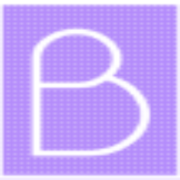
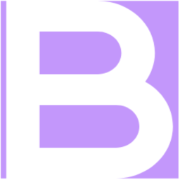
maj

diff --git a/index.html b/index.html
@@ -22,7 +22,10 @@
 <body>
 <!-- Navbar -->
 <nav class="navbar navbar-expand-lg">
-  <div class="container"> <a class="navbar-brand navbar-logo" href="#"> <img src="images/logo.png" alt="logo" class="logo-1"> </a>
+  <div class="container"> <a class="navbar-brand navbar-logo" href="#">
+    <img src="images/logotest.png" alt="logo" class="logo-img"> 
+</a>
+ </a>
     <button class="navbar-toggler" type="button" data-toggle="collapse" data-target="#navbarSupportedContent" aria-controls="navbarSupportedContent" aria-expanded="false" aria-label="Toggle navigation"> <span class="fas fa-bars"></span> </button>
     <div class="collapse navbar-collapse" id="navbarSupportedContent">
       <ul class="navbar-nav ml-auto">
@@ -31,7 +34,7 @@
         <li class="nav-item"> <a class="nav-link" href="#" data-scroll-nav="2">Fonctionnalités</a> </li>
         <li class="nav-item"> <a class="nav-link" href="#" data-scroll-nav="4">Sites scrapés</a> </li>
         <li class="nav-item"> <a class="nav-link" href="#" data-scroll-nav="5">FAQ</a> </li>
-        <li class="nav-item"> <a class="nav-link" href="#" data-scroll-nav="6">Contact</a> </li>
+        <li class="nav-item"> <a class="nav-link" href="#" data-scroll-nav="6">Planifiez une démo</a> </li>
       </ul>
     </div>
   </div>
@@ -46,11 +49,11 @@
           <div class="banner-text">
             <h2 class="white">Dénichez les Prix Bas avec Biblioprix</h2>
             <h6 class="white">Le Spécialiste du Livre d'Occasion</h6>
-            <p class="banner-text white">Trouvez les meilleures affaires en quelques clics avec Biblioprix, votre assistant dédié à la recherche de livres d'occasion. Grâce à notre technologie avancée de scrapping, importez vos listes d'ISBN et laissez Biblioprix parcourir plus d'une dizaine de sites revendeurs pour vous et identifier automatiquement les offres les plus avantageuses.</p>
+            <p class="banner-text white">Trouvez les meilleures affaires en quelques clics avec Biblioprix, votre assistant dédié à la recherche de livres d'occasion. Importez vos listes d'ISBN et laissez l'outil parcourir plus d'une dizaine de sites revendeurs pour vous, identifiant automatiquement les offres les plus avantageuses.</p>
             
           </div>
         </div>
-        <div class="col-md-4 col-sm-12"> <img src="images/iphone.png" class="img-fluid wow fadeInUp"/> </div>
+        <div class="col-md-4 col-sm-12"> <img src="images/iphone12.png" class="img-fluid wow fadeInUp"/> </div>
       </div>
     </div>
   </div>
@@ -74,7 +77,7 @@
             <div class="col-md-4">
               <div class="icon-box wow fadeInUp" data-wow-delay="0.2s"> <i class="fa fa-life-ring" aria-hidden="true"></i>
                 <h5>Support</h5>
-                <p>Support réactif, corrections en moins de 24h pour un scrapping sans prise de tête !</p>
+                <p>Support réactif, corrections en moins de 24h.</p>
               </div>
             </div>
             <div class="col-md-4">
@@ -86,7 +89,7 @@
             <div class="col-md-4">
               <div class="icon-box wow fadeInUp" data-wow-delay="0.6s"> <i class="fa fa-bolt" aria-hidden="true"></i>
                 <h5>Rapidité</h5>
-                <p>Serveurs optimisés avec proxys puissants pour un scrapping rapide et efficace.</p>
+                <p>Scannez 10 000 ISBNs en moins de 10 minutes.</p>
               </div>
             </div>
           </div>
@@ -151,21 +154,21 @@
               </div>
             </div>
             <div class="col-md-4 d-none d-md-block d-lg-block">
-              <div class="feature-mobile"> <img src="images/iphone2.png" class="img-fluid wow fadeInUp"/> </div>
+              <div class="feature-mobile"> <img src="images/iphone5.png" class="img-fluid wow fadeInUp"/> </div>
             </div>
             <div class="col-md-4 col-sm-12">
               <div class="media single-feature wow fadeInUp" data-wow-delay="0.2s">
                 <div class="media-left icon-border media-right-margin"> <span class="fa fa-check-double" aria-hidden="true"></span> </div>
                 <div class="media-body text-left">
                   <h5>Mises à jour régulières</h5>
-                  <p>Nous actualisons régulièrement le système pour améliorer le scrapping et maintenir une efficacité contre les nouvelles protections</p>
+                  <p>Nous actualisons régulièrement le système pour améliorer le scraping et maintenir une efficacité contre les nouvelles protections</p>
                 </div>
               </div>
               <div class="media single-feature wow fadeInUp" data-wow-delay="0.4s">
                 <div class="media-left icon-border media-right-margin"> <span class="fa fa-dollar-sign" aria-hidden="true"></span> </div>
                 <div class="media-body text-left">
                   <h5>Économiser de l'argent</h5>
-                  <p>Le coût mensuel de notre bot de scrapping est rapidement amorti, rendant votre investissement rentable dès le premier mois</p>
+                  <p>Le coût mensuel de notre bot de scraping est rapidement amorti, rendant votre investissement rentable dès le premier mois</p>
                 </div>
               </div>
               <div class="media single-feature wow fadeInUp" data-wow-delay="0.6s">
@@ -184,44 +187,7 @@
 </section>
 <!-------Features End-------> 
 
-<!-------Team Start------->
-<!-- <section class="team section-padding" data-scroll-index='3'>
-  <div class="container">
-    <div class="row">
-      <div class="col-md-12">
-        <div class="sectioner-header text-center">
-          <h3>Our Team</h3>
-          <span class="line"></span>
-          <p>Sed quis nisi nisi. Proin consectetur porttitor dui sit amet viverra. Fusce sit amet lorem faucibus, vestibulum ante in, pharetra ante.</p>
-        </div>
-        <div class="section-content text-center">
-          <div class="row">
-            <div class="col-md-4">
-              <div class="team-detail wow bounce" data-wow-delay="0.2s"> <img src="images/user1.jpg" class="img-fluid"/>
-                <h4>Nitu Singh</h4>
-                <p>Marketing Specialist</p>
-              </div>
-            </div>
-            <div class="col-md-4">
-              <div class="team-detail wow bounce" data-wow-delay="0.4s"> <img src="images/user2.jpg" class="img-fluid"/>
-                <h4>Yogesh Singh</h4>
-                <p>CEO & Founder</p>
-              </div>
-            </div>
-            <div class="col-md-4">
-              <div class="team-detail wow bounce" data-wow-delay="0.6s"> <img src="images/user3.jpg" class="img-fluid"/>
-                <h4>Nisha Sharma</h4>
-                <p>Web Developer</p>
-              </div>
-            </div>
-          </div>
-        </div>
-      </div>
-    </div>
-  </div>
-</section> -->
 
-<!-------Team End-------> 
 
 <!-------Testimonial Start------->
 <section class="testimonial section-padding" data-scroll-index='4'>
@@ -293,24 +259,24 @@
         <div class="sectioner-header text-center">
           <h3>Foire aux questions</h3>
           <span class="line"></span>
-          <p>Retrouvez ici les réponses aux questions les plus fréquemment posées sur notre service de scrapping de livres d'occasion.</p>
+          <p>Retrouvez ici les réponses aux questions les plus fréquemment posées sur notre service de scraping de livres d'occasion.</p>
         </div>
         <div class="section-content">
           <div class="row">
             <div class="col-md-6 faq-content wow fadeInUp" data-wow-delay="0.2s">
               <h4>Pourquoi vendre des livres d'occasion ?</h4>
-              <p>Le marché du livre d'occasion est en <b>croissance constante</b>, récupérant souvent des livres neufs invendus. En France, une large population passionnée de lecture préfère ces options plus économiques. De plus, <b>la loi permet de fixer librement les prix des livres d'occasion</b>, contrairement aux livres neufs.</p>
+              <p>Le marché du livre d'occasion est en <b>croissance constante</b>. De plus, <b>la loi permet de fixer librement les prix des livres d'occasion</b>, contrairement aux livres neufs.</p>
             </div>
             <div class="col-md-6 faq-content wow fadeInUp" data-wow-delay="0.2s">
               <h4>Comment débuter dans l'achat-revente de livres ?</h4>
               <p>Lancer un commerce d'achat-revente de livres est <b>accessible à tous</b>. Il suffit de créer une entreprise et de s'inscrire comme vendeur sur des plateformes comme Amazon. Achetez ensuite des livres, préparez les envois pour Amazon, et gérez votre stock.</p>
             </div>
             <div class="col-md-6 faq-content wow fadeInUp" data-wow-delay="0.4s">
-              <h4>Le scrapping est-il légal ?</h4>
-              <p><b>Oui, le scrapping est légal</b> tant que les données scrapées sont accessibles publiquement et ne se trouvent pas derrière un espace de connexion requérant des identifiants.</p>
+              <h4>Le scraping est-il légal ?</h4>
+              <p><b>Oui, le scraping est légal</b> tant que les données scrapées sont accessibles publiquement et ne se trouvent pas derrière un espace de connexion requérant des identifiants.</p>
             </div>
             <div class="col-md-6 faq-content wow fadeInUp" data-wow-delay="0.4s">
-              <h4>Quel est le coût de l'abonnement au bot de scrapping ?</h4>
+              <h4>Quel est le tarif mensuel de l'abonnement ?</h4>
               <p>Nous proposons un abonnement mensuel. Le premier mois est tarifé à 300 euros pour permettre aux nouveaux utilisateurs de se familiariser avec le service, puis le coût est de <b>600 euros par mois</b>.</p>
             </div>
             <div class="col-md-6 faq-content wow fadeInUp" data-wow-delay="0.6s">
@@ -330,57 +296,63 @@
 
 <!-------FAQ End-------> 
 
+<script>
+  document.addEventListener('DOMContentLoaded', function () {
+      // Email
+      var encodedEmail = 'YmlibGlvcHJpeEBnbWFpbC5jb20=';
+      var emailElement = document.getElementById('email-link');
+      emailElement.href = 'mailto:' + atob(encodedEmail);
+      emailElement.textContent = atob(encodedEmail);
+      emailElement.target = '_blank'; // Ajout de l'attribut target
+  
+      // Discord
+      var encodedDiscord = 'aHR0cHM6Ly9kaXNjb3JkLmdnL1lFajRFcE5Sc1Q=';
+      var discordElement = document.getElementById('discord-link');
+      discordElement.href = atob(encodedDiscord);
+      discordElement.textContent = atob(encodedDiscord);
+      discordElement.target = '_blank'; // Ajout de l'attribut target
+  });
+  </script>
+  
+  
+
 <!-------Contact Start------->
 <section class="contact section-padding" data-scroll-index='6'>
   <div class="container">
     <div class="row">
       <div class="col-md-12">
         <div class="sectioner-header text-center">
-          <h3>Contactez nous</h3>
+          <h3>Planifiez une démo</h3>
           <span class="line"></span>
           <p>Connectons-nous ! Retrouvez-nous sur nos différents canaux de communication et parlons de vos besoins.</p>
         </div>
         <div class="section-content">
           <div class="row">
-            <!-- <div class="col-sm-12 col-md-12 col-lg-8">
-              <form id="contact_form" action="">
-                <div class="row">
-                  <div class="col">
-                    <input type="text" id="your_name" class="form-input w-100" name="full-name" placeholder="Full Name" required>
-                  </div>
-                  <div class="col">
-                    <input type="email" id="email" class="form-input w-100" name="email" placeholder="Email" required>
-                  </div>
-                </div>
-                <input type="text" id="subject" class="form-input w-100" name="subject" placeholder="Subject">
-                <textarea class="form-input w-100" id="message" placeholder="Message" name="message"></textarea>
-                <button class="btn-grad w-100 text-uppercase" type="submit" name="button">submit</button>
-              </form>
-            </div> -->
             <div class="col-sm-12 col-md-12 col-lg-12" style="text-align: center;">
-              <div class="contact-info white">
-                  <div class="contact-item media" style="display: flex; justify-content: center; align-items: center;">
-                      <div class="media-body">
-                          <i class="fa fa-envelope" style="margin-right: 10px;"></i>
-                          <p class="text-uppercase">Par mail</p>
-                          <p class="text-uppercase"><a class="text-white" href="mailto:biblioprix@gmail.comm">biblioprix@gmail.com</a></p>
-                      </div>
-                  </div>
-                  <div class="contact-item media" style="display: flex; justify-content: center; align-items: center;">
-                      <div class="media-body">
-                          <i class="fa-brands fa-discord" style="margin-right: 10px;"></i>
-                          <p class="text-uppercase">Par Discord</p>
-                          <p class="text-uppercase"><a class="text-white" href="https://discord.gg/YEj4EpNRsT">https://discord.gg/YEj4EpNRsT</a></p>
-                      </div>
-                  </div>
-                  <div class="contact-item media" style="display: flex; justify-content: center; align-items: center;">
-                      <div class="media-body">
-                          <i class="fa-brands fa-twitter" style="margin-right: 10px;"></i>
-                          <p class="text-uppercase">Par Twitter</p>
-                          <p class="text-uppercase"><a class="text-white" href="https://twitter.com/biblioprix">@Biblioprix</a></p>
-                      </div>
-                  </div>
-              </div>
+                <div class="contact-info white" style="text-align: center;">
+                    <div class="contact-item media">
+                        <div class="media-body">
+                            <i class="fa fa-envelope" style="margin-right: 10px;"></i>
+                            <p class="text-uppercase">Par mail</p>
+                            <p class="text-uppercase"><a class="text-white" id="email-link" href="#">Chargement...</a></p>
+                        </div>
+                    </div>
+                    <div class="contact-item media">
+                        <div class="media-body">
+                            <i class="fa-brands fa-discord" style="margin-right: 10px;"></i>
+                            <p class="text-uppercase">Par Discord</p>
+                            <p class="text-uppercase"><a class="text-white" id="discord-link" href="#">Chargement...</a></p>
+                        </div>
+                    </div>
+                    <div class="contact-item media">
+                        <div class="media-body">
+                            <i class="fa-brands fa-twitter" style="margin-right: 10px;"></i>
+                            <p class="text-uppercase">Par Twitter</p>
+                            <p class="text-uppercase"><a class="text-white" href="https://twitter.com/biblioprix">@Biblioprix</a></p>
+                        </div>
+                    </div>
+                </div>
+                
           </div>
           
           
@@ -453,32 +425,29 @@ $(document).ready(function(e) {
 	});
 });
     
-$(window).on("scroll",function () {
+$(window).on("scroll", function () {
+    var bodyScroll = $(window).scrollTop(),
+        navbar = $(".navbar");
 
-	var bodyScroll = $(window).scrollTop(),
-	navbar = $(".navbar");
-	
-	if(bodyScroll > 50){
-	$('.navbar-logo img').attr('src','images/logo-black.png');
-	navbar.addClass("nav-scroll");
-
-}else{
-	$('.navbar-logo img').attr('src','images/logo.png');
-	navbar.removeClass("nav-scroll");
-}
-
+    if (bodyScroll > 50) {
+        $('.logo-img').attr('src','images/5.png');
+        navbar.addClass("nav-scroll");
+    } else {
+        $('.logo-img').attr('src','images/logotest.png');
+        navbar.removeClass("nav-scroll");
+    }
 });
-$(window).on("load",function (){
-	var bodyScroll = $(window).scrollTop(),
-	navbar = $(".navbar");
-	
-	if(bodyScroll > 50){
-	$('.navbar-logo img').attr('src','images/logo-black.png');
-	navbar.addClass("nav-scroll");
-	}else{
-	$('.navbar-logo img').attr('src','images/logo-white.png');
-	navbar.removeClass("nav-scroll");
-	}
+$(window).on("load", function () {
+    var bodyScroll = $(window).scrollTop(),
+        navbar = $(".navbar");
+
+    if (bodyScroll > 50) {
+        $('.logo-img').attr('src','images/5.png');
+        navbar.addClass("nav-scroll");
+    } else {
+        $('.logo-img').attr('src','images/logo-white.png');
+        navbar.removeClass("nav-scroll");
+    }
 
 	$.scrollIt({
 	

diff --git a/style.css b/style.css
@@ -52,7 +52,7 @@ h6 {
 	color: #fff;
 	text-transform: uppercase;
 	font-weight: 600;
-	font-size: 13px;
+	font-size: 16px;
 }
 .navbar .nav-item a:hover {
 	color: #5f0099;
@@ -454,6 +454,31 @@ input {
 	line-height: 20px;
 	margin: 0;
 }
+
+/* Style pour la section contact sur les grands écrans */
+@media (min-width: 768px) {
+    .contact-info {
+        display: flex;
+        justify-content: center;
+        align-items: center;
+        flex-wrap: wrap;  
+    }
+    .contact-item {
+        margin: 0 60px; /* Augmentez la marge horizontale pour plus d'espacement */
+        display: flex;
+        flex-direction: column;
+        align-items: center;
+    }
+}
+
+/* Style général pour tous les écrans */
+.contact-item {
+    display: flex;
+    justify-content: center;
+    align-items: center;
+    flex-direction: column; /* Garde les icônes et les textes alignés verticalement sur les petits écrans */
+}
+
 .download {
 	background: #7a60ff;
 	background: linear-gradient(to left, #7a60ff, #cd9ffa);
@@ -600,4 +625,48 @@ h3 {
 .footer-copy p {
 	font-size: 10px;
 }
+}
+.logo-img {
+    width: 190px;  /* Largeur désirée du logo */
+    height: 82px;  /* Hauteur désirée du logo */
+    object-fit: contain; /* Assure que l'image conserve ses proportions sans être coupée ou déformée */
+}
+
+.mosaic {
+	padding: 80px 0;
+	background: linear-gradient(to left, #7a60ff, #cd9ffa);
+  }
+  .mosaic .container {
+	max-width: 1200px; /* Ajuster selon les besoins */
+  }
+  .mosaic .row {
+	display: flex;
+	flex-wrap: wrap;
+	justify-content: center; /* Centrer les éléments */
+  }
+  .mosaic .col-md-2, .mosaic .col-sm-4, .mosaic .col-xs-6 {
+	display: flex;
+	flex-direction: column;
+	align-items: center;
+	margin-bottom: 20px; /* Espace entre les logos */
+  }
+  .mosaic .logo-img {
+    width: 157px; /* Taille fixe pour toutes les images pour uniformité */
+    height: 157px; /* Taille fixe pour toutes les images pour uniformité */
+    border: 5px solid white; /* Bordure blanche épaisse */
+    border-radius: 50%; /* Rend le bord parfaitement circulaire */
+    object-fit: cover; /* Assure que les images ne sont pas déformées */
+    box-shadow: 0 3px 6px rgba(0,0,0,0.1); /* Optionnel: Ajoute une ombre pour un effet de profondeur */
+}
+  .mosaic .logo-title {
+    margin-top: 10px; /* Espace entre l'image et le texte */
+    color: white; /* Couleur du texte */
+    font-size: 14px; /* Taille du texte */
+    text-align: center; /* Centrage du texte */
+}
+  
+  .navbar-logo-img {
+    width: 190px;  
+    height: auto; 
+    object-fit: contain;  
 }
